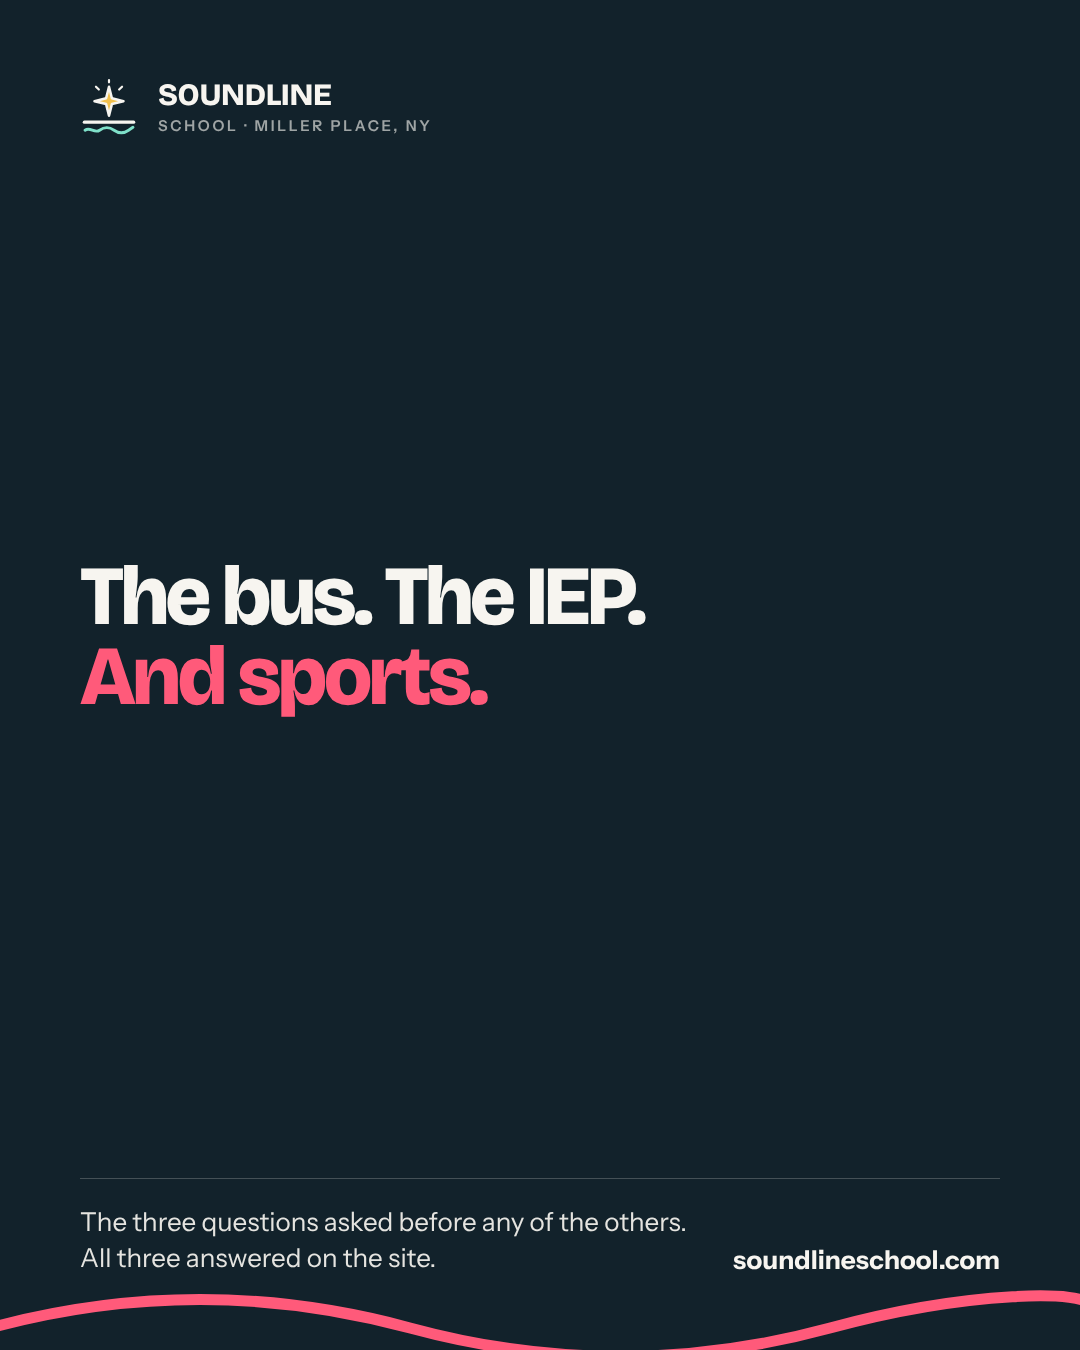
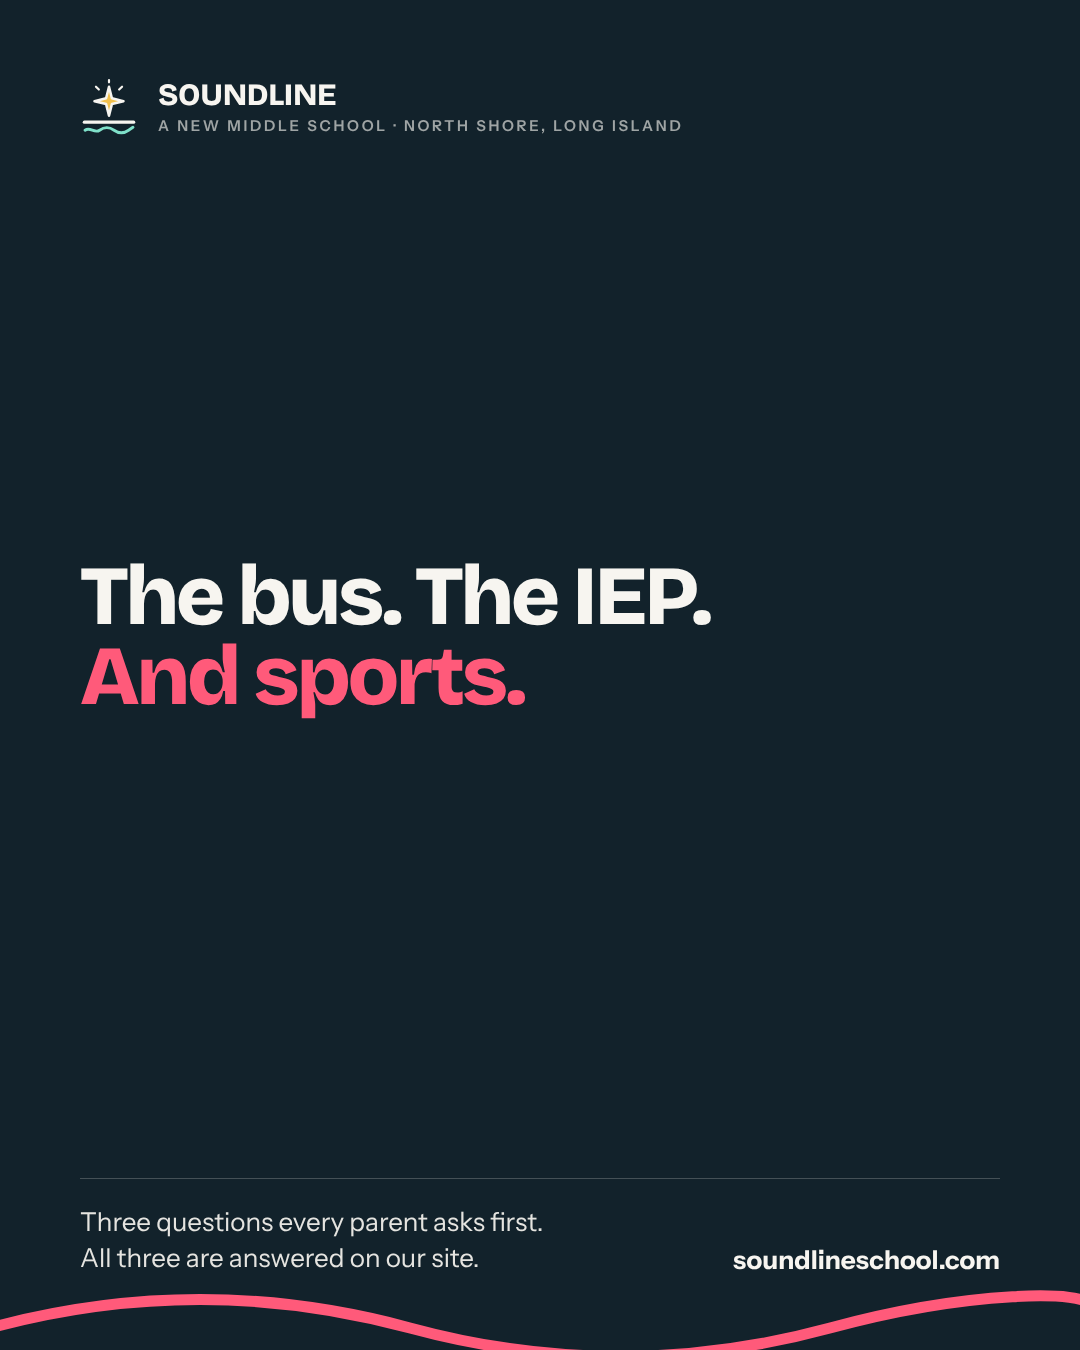
Social cards and the link preview, in the site's plain language
Link preview: 'Soundline School is a new middle school. And it is not
school as usual.'

Social cards: the line under the wordmark now reads 'A new middle school ·
North Shore, Long Island' (was 'School · Miller Place, NY'); footings and a
few headlines rewritten in plain sentences; four new cards for the new
message (a new middle school, you know your kid, work at thirty, the
reminder call). The escrow card is held off the schedule until the account
is confirmed open. All of phases two to four redrawn.

Claude-Session: https://claude.ai/code/session_018XwtJ24n77baQFaPFpZZ2a

Changed region(s): [[0.0917, 0.4044, 0.6722, 0.5289], [0.0917, 0.9022, 0.6417, 0.9644], [0.1528, 0.0622, 0.3361, 0.0933]]

diff --git a/tools/social-cards.js b/tools/social-cards.js
@@ -63,31 +63,31 @@ const CARDS = {
   h5: {
     track: 'home',
     pillar: 'significance',
-    head: ['Defended out loud.', "To someone who isn't you."],
-    foot: ['Every six weeks. No slides, no screen.',
-           'The hard part to do at home. Here it is Wednesday.'],
+    head: ['They explain their work', 'out loud. To someone', "who isn't you."],
+    foot: ['Every six weeks. No slides.',
+           'It is hard to do at home. Here it is part of school.'],
   },
   h7: {
     track: 'home',
     pillar: 'significance',
     head: ['Thursdays, they work', 'next to someone who', 'does it for a living.'],
     foot: ['Seventh and eighth grade apprenticeships.',
-           'The year work stops being assignments.'],
+           'Real work, beside a real adult, in their own town.'],
   },
   h8: {
     track: 'home',
     pillar: 'trust',
-    head: ['Three days a week.', 'And the paperwork', 'to match.'],
+    head: ['Homeschooling?', 'Come three days', 'a week.'],
     foot: ['Mon and Wed 9:15 to 12:30 · Fri 9:15 to 2:45',
-           'Information night January 14.'],
+           'We hand you the paperwork for your district.'],
   },
 
   // ---- public school ----------------------------------------------------
   p1v2: {
     track: 'public',
     pillar: 'belonging',
-    head: ['Doing fine on paper.', 'Quietly checked out.'],
-    foot: ['Middle school is three years. They go fast.',
+    head: ['Doing fine.', 'And that’s all.'],
+    foot: ['Good grades, no spark. Middle school goes fast.',
            'Information night January 14.'],
   },
   p3: {
@@ -107,39 +107,39 @@ const CARDS = {
   p5: {
     track: 'public',
     pillar: 'significance',
-    head: ['Two hours of practice.', 'Four hours of making.'],
-    foot: ['8:30 to 3:00 · Extended Day until 5:30',
-           'Grades 6–8 · Miller Place · September 2027'],
+    head: ['Mornings: math,', 'reading and writing.', 'Then classes, labs', 'and real projects.'],
+    foot: ['School is 8:30 to 3:00. After school until 5:30.',
+           'Grades 6–8 · North Shore · September 2027'],
   },
   p6: {
     track: 'public',
     pillar: 'trust',
-    head: ['None of this is new.', 'Putting it in one', 'building is.'],
-    foot: ['Mastery, long projects, one close teacher.',
-           'The research, with sources, is on the site.'],
+    head: ['Each part has been', 'studied for decades.', 'One school is new.'],
+    foot: ['Moving on when you have it. Long projects. One close teacher.',
+           'The research, with sources, is on our site.'],
   },
   p7: {
     track: 'public',
     pillar: 'significance',
     head: ['Four minutes of work.', 'Thirty-eight of waiting.'],
-    foot: ['Nobody waits here once they have got it.',
-           'Grouped by skill, not age.'],
+    foot: ['Here, a kid who is ready moves on.',
+           'Each child works at their own level.'],
   },
   p8: {
     track: 'public',
     pillar: 'trust',
     head: ['The bus. The IEP.', 'And sports.'],
-    foot: ['The three questions asked before any of the others.',
-           'All three answered on the site.'],
+    foot: ['Three questions every parent asks first.',
+           'All three are answered on our site.'],
   },
   // Phase two onward: tuition is published and enrollment is live, so the
   // Ask stops promising a date and starts naming what is open.
   p9v2: {
     track: 'public',
     pillar: 'trust',
-    head: ['Tuition is published.', 'Founding enrollment', 'is open.'],
-    foot: ['A rate that holds through twelfth grade.',
-           'A seat on the Family Council.'],
+    head: ['Tuition is published.', 'Sign-up is open.'],
+    foot: ['Our first families pay less,',
+           'and keep that price through twelfth grade.'],
   },
 
   // ---- belonging --------------------------------------------------------
@@ -150,8 +150,8 @@ const CARDS = {
     track: 'shared',
     pillar: 'belonging',
     head: ['Ten to twelve', 'in a grade.', 'There is no back row.'],
-    foot: ['Nobody drifts. Nobody is a seating chart.',
-           'Four adults in the building, and they all know them.'],
+    foot: ['No child gets overlooked.',
+           'Every adult in the building knows your kid.'],
   },
   b2: {
     track: 'shared',
@@ -164,8 +164,8 @@ const CARDS = {
     track: 'home',
     pillar: 'belonging',
     head: ['A sixth grader can be', 'the best in the room', 'at something.'],
-    foot: ['Grouped by skill, not by age.',
-           'Which means everyone is ahead at something.'],
+    foot: ['Each child works at their own level,',
+           'so everyone is ahead at something.'],
   },
 
   // ---- fun --------------------------------------------------------------
@@ -177,13 +177,13 @@ const CARDS = {
     pillar: 'fun',
     head: ['They tell you about it', 'in the car.'],
     foot: ['The whole way home, without being asked.',
-           'That is the measure we actually care about.'],
+           'That is how you know school is working.'],
   },
   f2: {
     track: 'public',
     pillar: 'fun',
     head: ['When did school', 'get so quiet?'],
-    foot: ['Four hours of making, every afternoon.',
+    foot: ['Here, kids build things all afternoon.',
            'Loud is allowed.'],
   },
   f3: {
@@ -191,7 +191,40 @@ const CARDS = {
     pillar: 'fun',
     head: ['Ask yours what', "they'd build,", 'given six weeks.'],
     foot: ['Then ask where they could do that now.',
-           'Every six weeks, that is the afternoon.'],
+           'Here, every student finishes a project every six weeks.'],
+  },
+
+  // ---- the plain-language message (12 Nov 2026) --------------------------
+  // What the site now says first: it is a school, it is new, and it is not
+  // school as usual. "School as usual" is aimed at the model, never at a
+  // school or a district.
+  n1: {
+    track: 'shared',
+    pillar: 'significance',
+    head: ['A new middle school.', 'Not school as usual.'],
+    foot: ['Soundline School · grades 6, 7 and 8',
+           'Opening September 2027'],
+  },
+  n2: {
+    track: 'public',
+    pillar: 'belonging',
+    head: ['You know your kid.', 'School should too.'],
+    foot: ['Ten to twelve students in a grade.',
+           'Every adult knows your kid.'],
+  },
+  n3: {
+    track: 'shared',
+    pillar: 'significance',
+    head: ['Nobody knows what', 'work will look like', 'when they are thirty.'],
+    foot: ['So we teach what will matter no matter what:',
+           'learn hard things, make things, explain them out loud.'],
+  },
+  n4: {
+    track: 'shared',
+    pillar: 'trust',
+    head: ['Is your child younger?', 'We will call you', 'when it is their turn.'],
+    foot: ['Sign-up for September 2028 opens in August 2027.',
+           'Ask for a reminder call on our site.'],
   },
 
   // ---- shared -----------------------------------------------------------
@@ -199,8 +232,8 @@ const CARDS = {
     track: 'shared',
     pillar: 'belonging',
     head: ['“He’ll know your child', 'by Wednesday.”'],
-    foot: ['Adam King · lead guide',
-           'Four adults in the building. Every student known.'],
+    foot: ['Adam King, lead guide (our word for teacher)',
+           'Every adult here knows your kid.'],
   },
   s2v2: {
     track: 'shared',
@@ -214,8 +247,8 @@ const CARDS = {
     track: 'shared',
     pillar: 'fun',
     head: ['Friday, 2:00.', 'Usually loud.'],
-    foot: ['Someone presents. Something is performed.',
-           'Families welcome.'],
+    foot: ['Every Friday, students show their work.',
+           'Families are welcome.'],
   },
   // The night itself. Phase One art (img/social/01..09) predates this
   // generator and is not redrawn here; this is the one Phase One card the
@@ -234,8 +267,8 @@ const CARDS = {
     track: 'shared',
     pillar: 'trust',
     head: ['We do not hold', 'your deposit.'],
-    foot: ['$500, in escrow with an independent agent.',
-           'Refundable in full until we sign a lease.'],
+    foot: ['$500 holds a seat. An independent agent keeps it.',
+           'You get all of it back until we sign a lease.'],
   },
   s4dec: {
     track: 'shared',
@@ -265,16 +298,16 @@ const SCHEDULE = {
     ['2026-11-08', 'ask',       's4nov'],
   ]},
   2: { window: 'Nov 12 – Nov 30 · open', slots: [
-    ['2026-11-13', 'place',     's2v2'],
+    ['2026-11-13', 'place',     'n1'],
     ['2026-11-15', 'ask',       'p9v2'],
     ['2026-11-16', 'mechanism', 'b1'],
     ['2026-11-18', 'mirror',    'f1'],
-    ['2026-11-20', 'place',     'x1escrow'],
+    ['2026-11-20', 'place',     'n2'],        // was x1escrow: held until the escrow account is confirmed open
     ['2026-11-22', 'ask',       's4dec'],
     ['2026-11-23', 'mechanism', 'p8'],
     ['2026-11-25', 'mirror',    'h5'],
     ['2026-11-27', 'place',     's1'],
-    ['2026-11-29', 'ask',       'p9v2'],
+    ['2026-11-29', 'ask',       'n4'],
     ['2026-11-30', 'mechanism', 'p5'],
   ]},
   3: { window: 'Dec 1 – Dec 12 · report card', slots: [
@@ -289,7 +322,7 @@ const SCHEDULE = {
     ['2027-01-03', 'ask',       's4jan'],
     ['2027-01-04', 'mechanism', 'p5'],
     ['2027-01-06', 'mirror',    'p1v2'],
-    ['2027-01-08', 'place',     's2v2'],
+    ['2027-01-08', 'place',     'n3'],
     ['2027-01-10', 'ask',       'h8'],
     ['2027-01-11', 'mechanism', 'b3'],
     ['2027-01-13', 'mirror',    'f2'],
@@ -359,7 +392,7 @@ const page = (c) => `<!doctype html><html lang="en"><head><meta charset="utf-8">
 <div class="card">
   <div class="lockup">${MARK}
     <span class="name"><span class="wordmark">Soundline</span>
-    <span class="where">School · Miller Place, NY</span></span>
+    <span class="where">A new middle school · North Shore, Long Island</span></span>
   </div>
   <div class="body">
     <h1 id="head">${c.head.map((l) => `<span>${l.replace(/\{([^}]*)\}/g, '<em>$1</em>')}</span>`).join('')}</h1>

diff --git a/print/og-image.html b/print/og-image.html
@@ -3,8 +3,8 @@
   Source for og-image.png, the 1200 x 630 picture a link to the site shows in
   a text message, on Facebook and in search. Regenerate: node tools/og-image.js
 
-  It must agree with the site's header: the mark, the promise in the day bar's
-  three colors, and the location line (North Shore, Long Island).
+  It must agree with the site's Home headline (plain language, 12 Nov 2026), the
+  mark, and the location line (North Shore, Long Island).
 -->
 <html lang="en"><head><meta charset="utf-8">
 <title>Soundline School — link preview</title>
@@ -17,10 +17,10 @@
   .lockup{display:flex;align-items:center;gap:22px}
   .lockup svg{width:78px;height:78px;flex:none}
   .wm{font-family:"Bricolage Grotesque","Helvetica Neue",Arial,sans-serif;font-weight:800;font-size:42px;letter-spacing:-.045em;line-height:1;text-transform:uppercase}
-  h1{margin:0;font-family:"Bricolage Grotesque","Helvetica Neue",Arial,sans-serif;font-weight:800;font-size:68px;line-height:1;letter-spacing:-.045em}
+  h1{margin:0;font-family:"Bricolage Grotesque","Helvetica Neue",Arial,sans-serif;font-weight:800;font-size:76px;line-height:1;letter-spacing:-.045em}
   h1 span{display:block}
   .a{color:var(--shallows)} .b{color:var(--making)} .c{color:var(--beacon)}
-  .say{margin:18px 0 0;font-family:"Newsreader",Georgia,serif;font-style:italic;font-size:31px;line-height:1.2}
+  .say{margin:14px 0 0;font-family:"Newsreader",Georgia,serif;font-style:italic;font-size:58px;line-height:1.1;letter-spacing:-.02em;color:var(--beacon)}
   .foot{border-top:3px solid var(--glow);padding-top:20px;font-weight:600;font-size:23px;color:var(--glow)}
 </style></head>
 <body>
@@ -34,8 +34,8 @@
     <span class="wm">Soundline</span>
   </div>
   <div>
-    <h1><span class="a">Two hours of practice.</span><span class="b">Four hours of making.</span><span class="c">Every adult knows your kid.</span></h1>
-    <p class="say">Depth with direction.</p>
+    <h1><span>Soundline School is</span><span>a new middle school.</span></h1>
+    <p class="say">And it is not school as usual.</p>
   </div>
   <div class="foot">soundlineschool.com · Grades 6–8 · North Shore, Long Island · Opening September 2027</div>
 </body></html>
